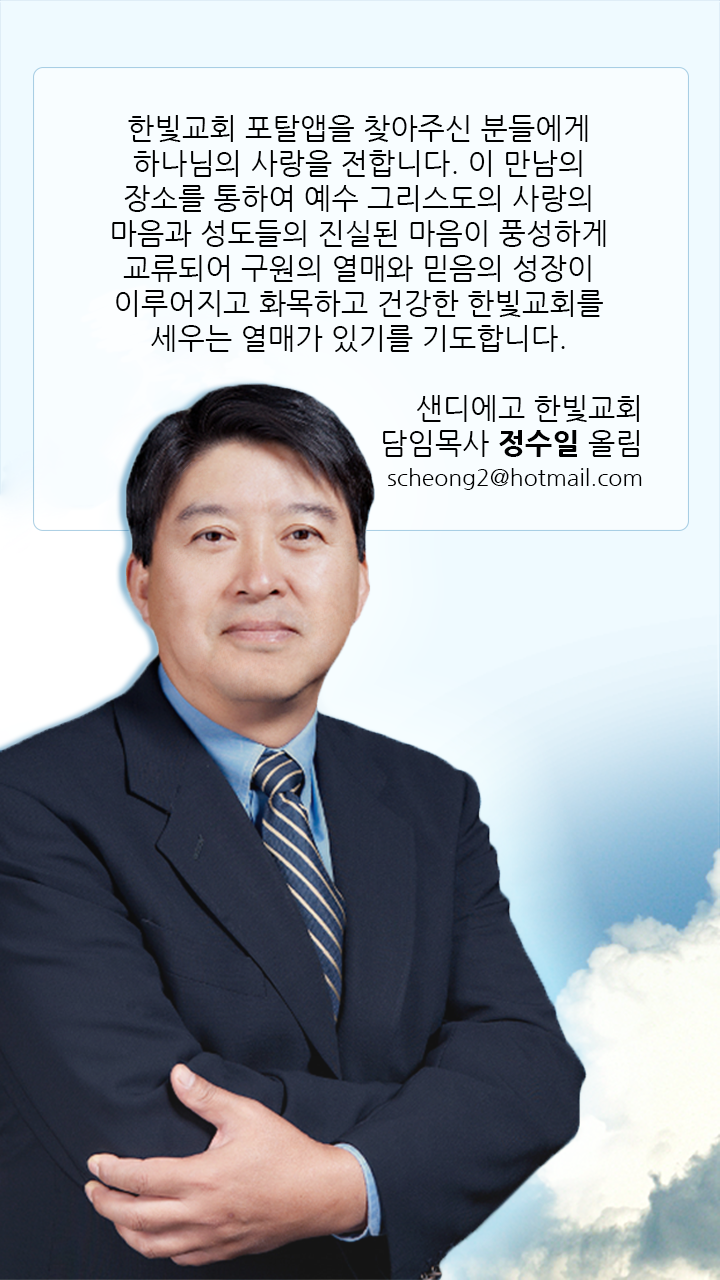
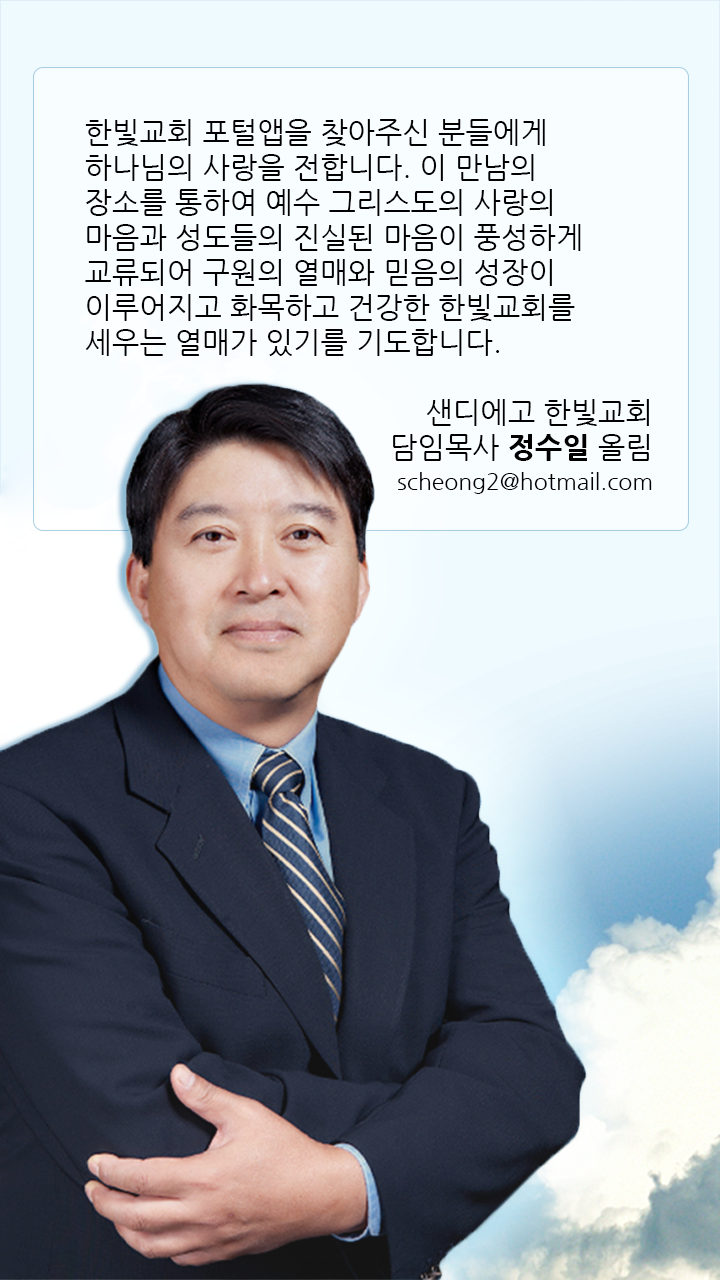
update greeting and overview pages

Changed region(s): [[0.1222, 0.0938, 0.8556, 0.2812], [0.5194, 0.3125, 0.9167, 0.4062]]

diff --git a/SDHanbitChurch/PageViewController.m b/SDHanbitChurch/PageViewController.m
@@ -54,8 +54,26 @@ NSString *backImageList[5] = {@"bird.jpg", @"yellowtree2.jpg", @"cross.jpg", @"g
     if (_category == MENU_ID_CHURCH_INTRO) // 교회 소개
     {
         NSString *html = [NSString stringWithFormat:
-                          @"<html><body style=\"margin:0\"><img src=hanbit_overview.png width=\"%d\"></body></html>",
-                          (int)self.view.frame.size.width];
+                          @"<html><head> \
+                          <style type=\"text/css\"> \
+                          body { \
+                          font-family: \"AppleSDGothicNeo-Regular\"; \
+                          margin: 0px; } \
+                          </style></head> \
+                          <body> \
+                          <img src=hanbit_overview.png width=\"%d\"> <br><br>\
+                          <table border=0 style=\"color:black;font-size:11px;margin-left:10px;margin-right:10px;\"> \
+                          <tr><td valign=center width=\"%d\"><font face=\"AppleSDGothicNeo-Bold\" color=#0080FF>교회 위치 안내</font><br> \
+                          <font face=\"AppleSDGothicNeo-Bold\">San Diego Hanbit Church</font><br> \
+                          4717 Cardin St.<br>San Diego, CA 92111<br><br> \
+                          <font face=\"AppleSDGothicNeo-Bold\" color=#0080FF>교회 연락처</font><br> \
+                          Phone: (858) 874-2412<br> \
+                          Email: <a href=\"mailto:info@sdhanbit.org\">info@sdhanbit.org</a><br> \
+                          <td valign=center halign=left width=\"%d\"><img src=hanbit_logo_160.png width=\"%d\"></td></tr> \
+                          </table> \
+                          <br><br></body></html>",
+                          (int)self.view.frame.size.width, (int)self.view.frame.size.width/2,
+                          (int)self.view.frame.size.width/2 - 10, (int)self.view.frame.size.width/2 - 30];
                           
         [_viewControl loadHTMLString:html baseURL:baseURL];
     }

diff --git a/SDHanbitChurch/PageTableViewController.m b/SDHanbitChurch/PageTableViewController.m
@@ -135,7 +135,7 @@
         NSInteger thisWeekDay = [[calender components: NSWeekdayCalendarUnit fromDate:pubDate] weekday];
         
         NSRange strYearRange = {0,4}, strMonthRange = {4,2}, strDayRange = {6,2};
-        UInt32 day = [data->_pubdate substringWithRange:strDayRange].intValue;
+        NSInteger day = [data->_pubdate substringWithRange:strDayRange].intValue;
         if (_category == MENU_ID_SERMON_VIDEO)
             day = day - thisWeekDay + 1;
         
@@ -144,7 +144,7 @@
         tableLabelDate.text = [NSString stringWithFormat:@"%@-%@-%02ld",
                                [data->_pubdate substringWithRange:strYearRange],
                                [data->_pubdate substringWithRange:strMonthRange],
-                               day];
+                               (long)day];
     }
     
     if (_category == MENU_ID_SERMON_VIDEO)
